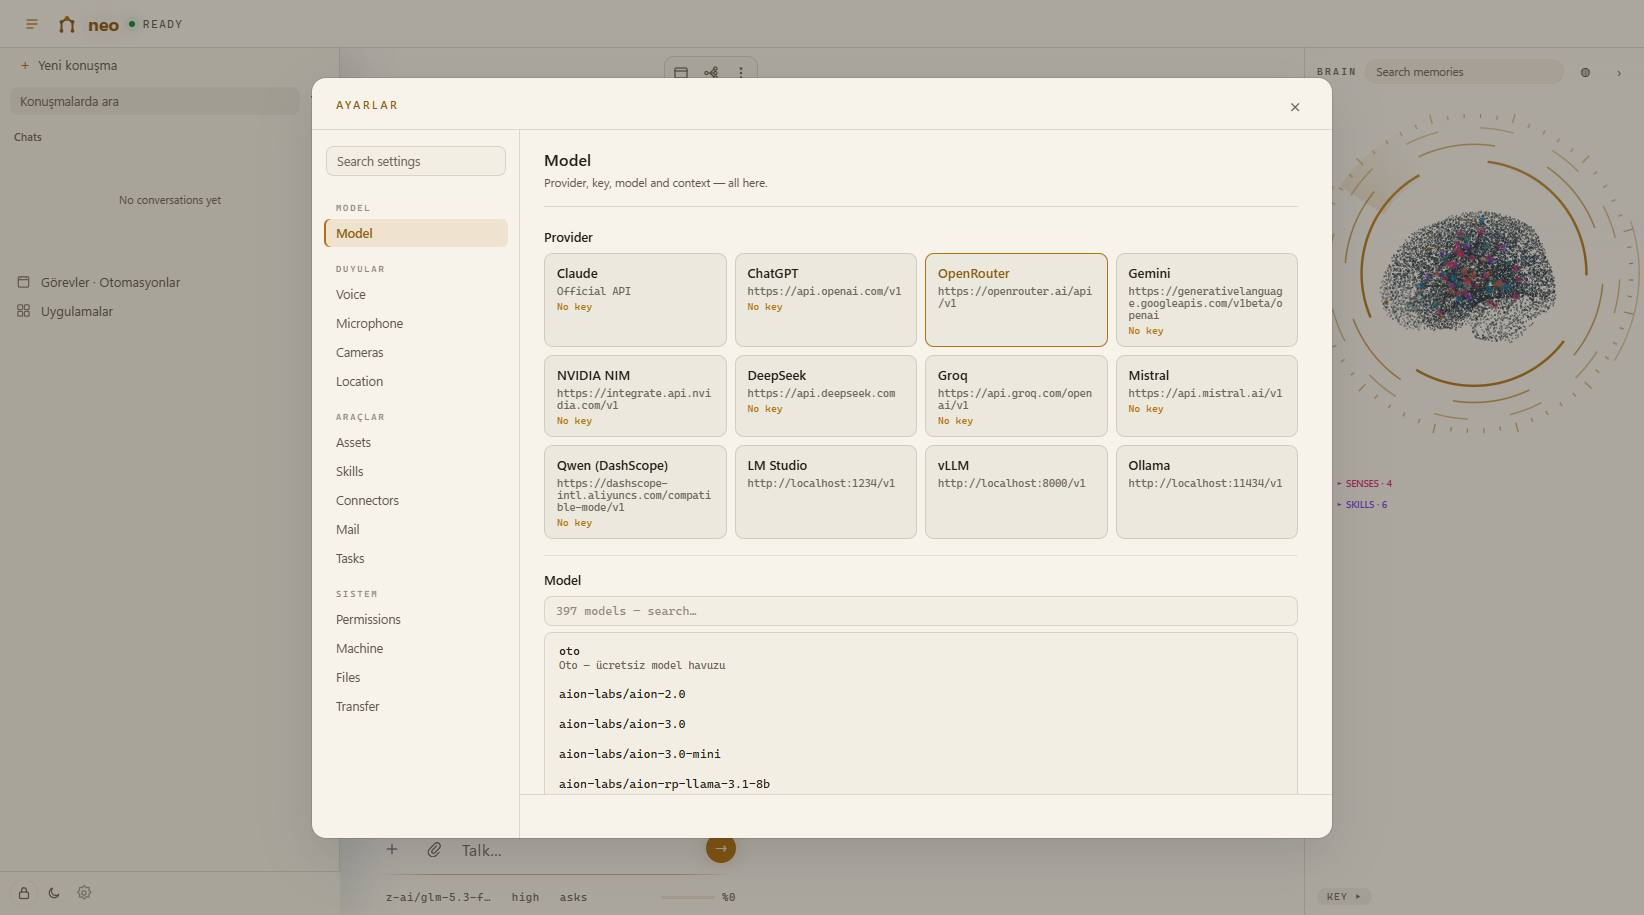
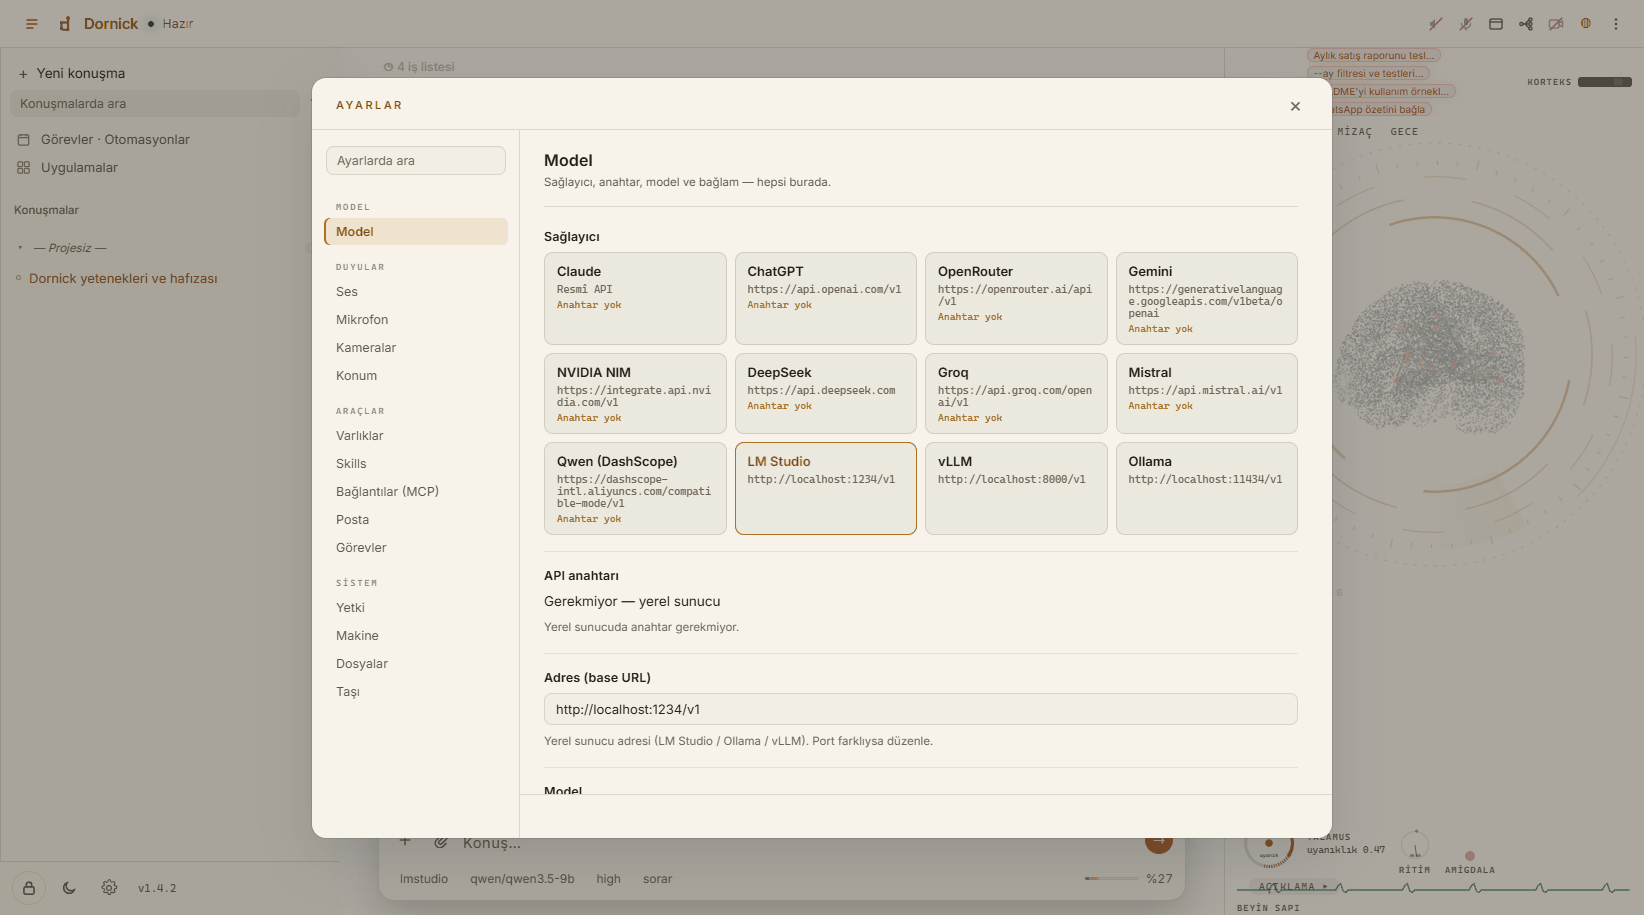
README ve galeri görselleri Dornick arayüzüyle yeniden çekildi
Eski "neo" markalı ekran görüntüleri yerine güncel uygulama (1.4.2, Türkçe
arayüz, Faz 6 beyin bölgeleri, yerel LM Studio modeliyle canlı oturum).
Referanssız eski tasks-automations.jpg silindi; alt metinler ve galeri
notları güncellendi. Arayüzde kullanıcıya görünen "neo" kalmadı.

diff --git a/docs/gallery/README.md b/docs/gallery/README.md
@@ -1,8 +1,9 @@
 # Gallery
 
-Screenshots from a live instance — no mockups. The last shot is a real
-exchange with `z-ai/glm-5.3-flash` over OpenRouter; the session title in
-the sidebar was written by the model itself.
+Screenshots from a live instance (Dornick 1.4.2, Turkish UI) — no mockups.
+The last shot is a real exchange with a local model, `qwen/qwen3.5-9b`
+served by LM Studio, no API key involved; the session title in the sidebar
+was written by the model itself.
 
 ## Shell
 
@@ -11,25 +12,27 @@ the sidebar was written by the model itself.
 | ![Light shell](01-shell-light.png) | ![Dark shell](02-shell-dark.png) |
 
 Permanent conversation sidebar on the left, chat in the center, the memory
-brain on the right. Both themes ship first-class.
+brain on the right — with its regions around the network: the prefrontal
+goal strip, the cortex band, the thalamus gauge and the brainstem pulse.
+Both themes ship first-class.
 
 ## Working surfaces
 
 | | |
 |---|---|
 | ![Task list](03-task-list.png) | ![Viewer tabs](04-viewer-tabs.png) |
-| **Task list** — the agent's own work items; check off, remove, or add yours in place. | **Viewer tabs** — opening a second file keeps the first a click away. |
+| **Task list** — the agent's own work items, a tab in the viewer; check off, remove, or add yours in place. | **Viewer tabs** — opening a second file keeps the first a click away; the changes, task list, browser and terminal tabs stay pinned. |
 
 ## Settings
 
 | | |
 |---|---|
 | ![Connectors](05-connectors.png) | ![Model settings](06-model-settings.png) |
-| **Connectors directory** — search, connected/not-connected filters, one-click popular MCP servers. | **Model settings** — providers, keys, context window. |
+| **Connectors directory** — search, connected/not-connected filters, one-click OAuth and stdio MCP servers. | **Model settings** — providers, keys, address, context window; a local server needs no key. |
 
 ## Models
 
 | | |
 |---|---|
 | ![Per-chat model](07-per-chat-model.png) | ![Live session](08-live-session.png) |
-| **Per-chat model** — every conversation can pin its own model; new chats inherit the last choice. | **Live session** — real model, real cost meter, model-written title. |
+| **Per-chat model** — every conversation can pin its own model; new chats inherit the last choice. | **Live session** — a real local model, the token meter in the dock, model-written title. |

diff --git a/README.md b/README.md
@@ -25,8 +25,9 @@ It works with **any model**: Anthropic's API, OpenRouter, or a local server —
 LM Studio, Ollama, vLLM, llama.cpp. Your conversations and memories never
 leave the machine unless you point it at a hosted model.
 
-![dornick's home screen — English UI, light theme: conversation sidebar, task
-list, and the memory brain on the right](docs/screenshots/home-memory-web.png)
+![dornick's home screen — Turkish UI, light theme: conversation sidebar, the
+agent's task list, and the memory brain on the right with its regions —
+prefrontal goal strip, cortex, network, thalamus and brainstem](docs/screenshots/home-memory-web.png)
 
 More screenshots — light/dark shells, viewer tabs, the connectors
 directory, a live session with a real model: [the gallery](docs/gallery/README.md).
@@ -174,9 +175,10 @@ to ask: [docs/gate.md](docs/gate.md).
 
 ## Automations
 
-![The Tasks panel: a list with Simple and Automation badges, and the flow
-graph of a daily mail digest with four steps — read inbox, pick what matters,
-send to WhatsApp, archive the rest](docs/screenshots/automation-flow.png)
+![The Tasks panel, dark theme: a list with Simple and Automation badges, and
+the flow graph of a daily mail digest — read inbox, pick what matters, send to
+WhatsApp, archive the rest, and an error branch that tells you it
+broke](docs/screenshots/automation-flow.png)
 
 Each node names its type (`mail_read`, `agent`, `http`, `skill`), the secrets
 it needs, and whether you edited it by hand — a step marked ✎ *manual* is one
@@ -222,7 +224,9 @@ explicit opt-in (see "Learn me" above).
 
 ### Settings
 
-![dornick settings, showing the model, voice, permissions and machine tabs](docs/screenshots/settings.png)
+![dornick settings — the Model page with the provider grid (Claude, ChatGPT,
+OpenRouter, Gemini, LM Studio, vLLM, Ollama…), and the voice, permissions and
+machine tabs in the side navigation](docs/screenshots/settings.png)
 
 ## Training rig
 
